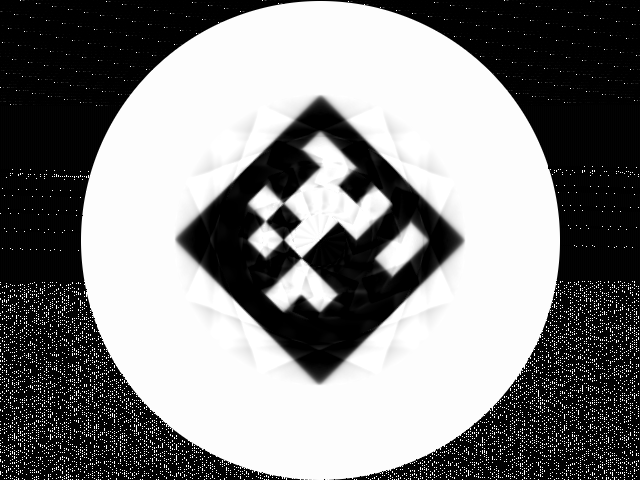
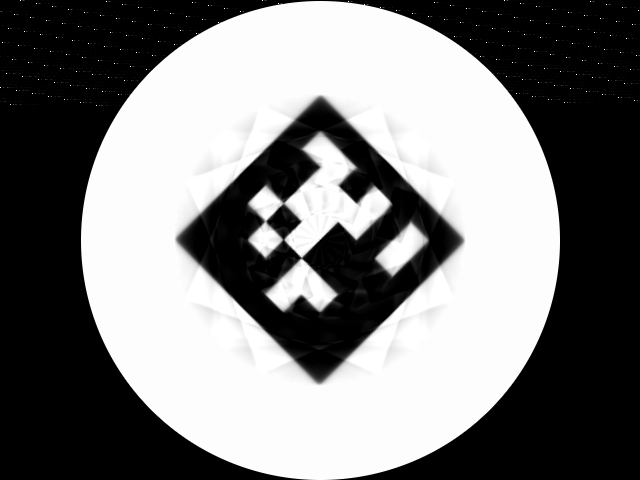
Started adding stuff with richardson-lucy

Changed region(s): [[0.5938, 0.5938, 1.0, 1.0], [0.0, 0.5938, 0.3438, 1.0], [0.375, 0.9688, 0.4062, 1.0]]

diff --git a/deblurring_rot.py b/deblurring_rot.py
@@ -1,10 +1,10 @@
 import numpy as np
 import cv2
 import csv
-import matplotlib.pyplot as plt
 
 from skimage.io import imread
 from skimage.restoration import wiener
+from skimage.restoration import richardson_lucy
 from pupil_apriltags import Detector
 from file_eval import eval_image, angle_error, detect_apriltag_angle
 
@@ -13,12 +13,13 @@ folder = '45_deg_roll_flat/'
 comp_image = 'roll_024deg.png'
 ref = imread(folder + 'sharp_midpoint.png', as_gray=True)
 sweep_deg = 24
-sigma = list(range(0, 28, 2))                 # Noise stddev
+sigma = list(range(0, 28, 2))               # Noise stddev
 K = 0.005                                   # Wiener SNR
 angle = 45                                  # Ground truth angle for comparison
+iterations = 20                             # Richardson-Lucy iterations
 
 # Helper Functions
-def wiener_deblur_image(img_n, sweep_deg, sigma, K):
+def deblur_image(img_n, sweep_deg, sigma, K):
     # Convert to Polar Coordinates
     height, width = img_n.shape[:2]
     center = (width / 2, height / 2)
@@ -58,49 +59,16 @@ def wiener_deblur_image(img_n, sweep_deg, sigma, K):
     psnr_b, ssim_b = eval_image(ref[crop], img_n[crop])
     psnr_r, ssim_r = eval_image(ref[crop], restored.astype(np.float32)[crop])
 
-    return restored, img_n, psnr_b, ssim_b, psnr_r, ssim_r
+    # Richardson-Lucy deconvolution
+    kernel = np.ones((blurred_rows, 1), dtype =np.float32) / blurred_rows
+    restoredRL = richardson_lucy(img_pn / 255.0, kernel, num_iter = iterations, clip=False)
+    restoredRL = np.clip(restoredRL, 0, 255)
+    restoredRL = np.nan_to_num(restoredRL, nan=255.0)
+    restoredRL = np.clip(restoredRL, 0, 255).astype(np.uint8)
 
-def rl_deblur_image(img_n, sweep_deg, sigma, K):
-    # Convert to Polar Coordinates
-    height, width = img_n.shape[:2]
-    center = (width / 2, height / 2)
-    max_radius = height / 2
-    flgs = cv2.INTER_LINEAR + cv2.WARP_POLAR_LINEAR
+    psnr_rl, ssim_rl = eval_image(ref[crop], restoredRL.astype(np.float32)[crop])
 
-    # Adding noise to the image to simulate camera
-    rng = np.random.default_rng(0)
-    img_n = np.clip(img_n + rng.normal(0, sigma, img_n.shape), 0, 255).astype(np.float32) # Adding noise to the image
-
-    img_pn = cv2.warpPolar(img_n, dsize=None, center=center, maxRadius=max_radius, flags=flgs)
-
-    img_pn = cv2.warpPolar(img_n, dsize=None, center=center, maxRadius=max_radius, flags=flgs)
-
-    pol_h, pol_w = img_pn.shape[:2]  # Shape of polar coords image
-
-    # Define Kernel for RL Deconvolution
-    blurred_rows = int(pol_h * (sweep_deg / 360.0))
-
-    psf = np.ones((blurred_rows, 1)) / blurred_rows      # point spread func
-    reg = np.zeros((3, 3)); reg[1, 1] = 1                # regularizer
-    restored_polar = wiener(img_pn / 255.0, psf, balance=K, reg=reg, clip=False) * 255.0
-
-    restored = cv2.warpPolar(restored_polar, (width, height), center, max_radius, flags=flgs + cv2.WARP_INVERSE_MAP)
-    restored = np.nan_to_num(restored, nan=255.0)          # NaN -> white (background)
-    restored = np.clip(restored, 0, 255).astype(np.uint8)
-
-    # Cropping the image so that the dark circle outside is eliminated
-    c0, r0 = int(center[0]), int(center[1])
-    half = int(max_radius / np.sqrt(2))            # largest square that fits inside the circle
-    crop = (slice(r0 - half, r0 + half), slice(c0 - half, c0 + half))
-
-    
-    restored = np.nan_to_num(restored, nan=255.0)          # NaN -> white (background)
-    restored = np.clip(restored, 0, 255).astype(np.uint8)
-
-    psnr_b, ssim_b = eval_image(ref[crop], img_n[crop])
-    psnr_r, ssim_r = eval_image(ref[crop], restored.astype(np.float32)[crop])
-
-    return restored, img_n, psnr_b, ssim_b, psnr_r, ssim_r
+    return restored, restoredRL, img_n, psnr_b, ssim_b, psnr_r, ssim_r, psnr_rl, ssim_rl
 
 img = imread(folder + comp_image, as_gray=True).astype(np.float32)
 
@@ -114,7 +82,7 @@ with open('results_45deg_24roll.csv', 'w', newline='') as f:
     writer = csv.writer(f)
     writer.writerow(['Noise Sigma', 'PSNR Blurred', 'SSIM Blurred', 'PSNR Restored', 'SSIM Restored', 'Angle Error Blurred', 'Angle Error Restored'])
     for s in sigma:
-        restored, img_n, psnr_b, ssim_b, psnr_r, ssim_r = wiener_deblur_image(img, sweep_deg, s, K)
+        restored, restoredRL, img_n, psnr_b, ssim_b, psnr_r, ssim_r, psnr_rl, ssim_rl = deblur_image(img, sweep_deg, s, K)
 
         ang_est = detect_apriltag_angle(detector, restored.astype(np.uint8))
         ang_err = angle_error(ang_est, angle) if ang_est is not None else None
@@ -124,11 +92,14 @@ with open('results_45deg_24roll.csv', 'w', newline='') as f:
         
         writer.writerow([s, psnr_b, ssim_b, psnr_r, ssim_r, ang_err_r, ang_err])
 
-restored, img_n, psnr_b, ssim_b, psnr_r, ssim_r = wiener_deblur_image(img, sweep_deg, 0, K)
+restored, restoredRL, img_n, psnr_b, ssim_b, psnr_r, ssim_r, psnr_rl, ssim_rl = deblur_image(img, sweep_deg, 0, K)
 cv2.imwrite(folder + 'restored_wiener.png', restored)
+cv2.imwrite(folder + 'restored_rl.png', restoredRL)
 
-restored, img_n, psnr_b, ssim_b, psnr_r, ssim_r = wiener_deblur_image(img, sweep_deg, 5, K)
+restored, restoredRL, img_n, psnr_b, ssim_b, psnr_r, ssim_r, psnr_rl, ssim_rl = deblur_image(img, sweep_deg, 5, K)
 cv2.imwrite(folder + 'restored_wiener_5n.png', restored)
+cv2.imwrite(folder + 'restored_rl_5n.png', restoredRL)
 
-restored, img_n, psnr_b, ssim_b, psnr_r, ssim_r = wiener_deblur_image(img, sweep_deg, 10, K)
+restored, restoredRL, img_n, psnr_b, ssim_b, psnr_r, ssim_r, psnr_rl, ssim_rl = deblur_image(img, sweep_deg, 10, K)
 cv2.imwrite(folder + 'restored_wiener_10n.png', restored)
+cv2.imwrite(folder + 'restored_rl_10n.png', restoredRL)
